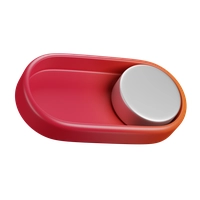
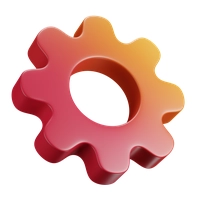
Setting, not Toggle, for Store profile
Measured centred in its own canvas, offset 0 against the target's 10, so it
needs no nudge and the empty one it already had is right.

diff --git a/web/public/icons3d/SOURCE.md b/web/public/icons3d/SOURCE.md
@@ -7,7 +7,7 @@ Three renders from the **3dicons.co v1 collection** by realvjy, released
 | --- | --- | --- |
 | `overview.webp` | Target | Overview |
 | `log.webp` | Notebook | Log |
-| `profile.webp` | Toggle | Store profile |
+| `profile.webp` | Setting | Store profile |
 
 Displayed at 36×36. Fetched at 200×200, `dynamic` style, `color` finish:
 `https://3dicons.co/collection/b68cf8-v1`
